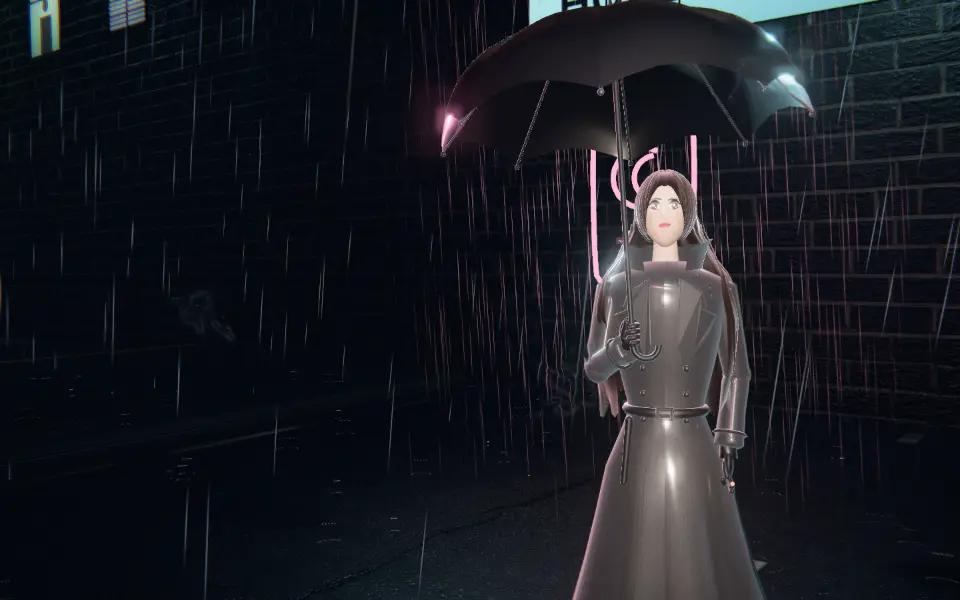
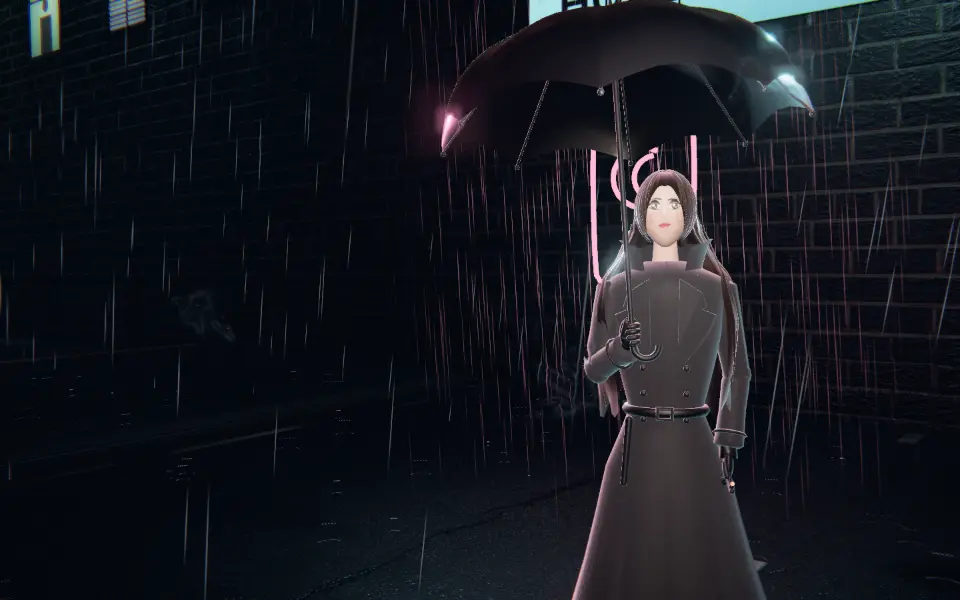
NIGHT SHIFT poster: the trench as matte wool and a soft face key, not chrome (item 221 done)
Claude-Session: https://claude.ai/code/session_01SimvMMn7LS4CBVXbMiyBKZ

diff --git a/games/cathode/src/render/frontscene.ts b/games/cathode/src/render/frontscene.ts
@@ -200,8 +200,20 @@ export async function openFrontScene(canvas: HTMLCanvasElement, o: FrontSceneOpt
     // lens's side) lifts the black trench off the street; a second, softer one at face height; a cool cyan rim from
     // behind her right parts her from the dark.
     if (o.keyart) {
-      removers.push(world.light(toWorld(0.9, 1.2, 1.6), new THREE.Color(1.0, 0.72, 0.5), 20, 3.6));
-      removers.push(world.light(toWorld(0.7, 1.75, 1.2), new THREE.Color(1.0, 0.82, 0.7), 6, 2.4));
+      // Plan item 221: the key at 6.5 (20 polished the trench to chrome) and a small face key, so she reads as the
+      // mum in the rain; the coat's lacquer is taken down to wool for the poster only.
+      removers.push(world.light(toWorld(0.9, 1.2, 1.6), new THREE.Color(1.0, 0.72, 0.5), 6.5, 3.2));
+      removers.push(world.light(toWorld(0.45, 1.68, 0.75), new THREE.Color(1.0, 0.82, 0.7), 3, 1.6));
+      cath.group.traverse((obj) => {
+        const mats = (obj as THREE.Mesh).material;
+        for (const m of Array.isArray(mats) ? mats : mats ? [mats] : []) {
+          const pm = m as THREE.MeshPhysicalMaterial;
+          if (!pm.isMeshPhysicalMaterial || pm.clearcoat < 0.5) continue;
+          pm.clearcoat = 0.12;
+          pm.clearcoatRoughness = 0.5;
+          pm.roughness = Math.max(pm.roughness, 0.85);
+        }
+      });
       removers.push(world.light(toWorld(-0.9, 1.6, -0.9), new THREE.Color(0.2, 0.8, 1.0), 12, 3.2));
       world.renderer.domElement.dataset.keyart = "1";
     }

diff --git a/docs/plan/two-week-plan.md b/docs/plan/two-week-plan.md
@@ -2406,7 +2406,7 @@ The items come from fresh-eyes audits on 2026-11-01 and 2026-11-02 (items 25-32:
 - **Accept:** at 1440x900 and 1280x800 the column shows three groups at most; no empty rack cell; every label 12 px or more; Go 56 px or more tall; tray, round-chips and critique specs pass; shots D and P (P unchanged).
 - **Size:** 2
 
-## 221. [ ] NIGHT SHIFT poster: Cath lit as on the title, not chrome *(tried 2026-11-06 20:05 lane A, not committed, handed back: the chrome is the trench's clearcoat (0.85, frontcath.ts) under the `?keyart` keys. In the `o.keyart` branch of frontscene.ts: coat key 20 -> 6.5 (range 3.2), face key at toWorld(0.45, 1.68, 0.75) range 1.6, and traverse cath.group setting clearcoat 0.12 / clearcoatRoughness 0.5 / roughness >= 0.85 on materials with clearcoat >= 0.5. Measured on the 960 webp (linear): coat box 610-740 x 420-590 mean 0.114 -> 0.044, matte; face box 648-678 x 190-235 0.685 with the face key at 7 (still flat white: try 3). Re-shoots came back black while the release's e2e had the CPU: shoot on a quiet machine)*
+## 221. [x] NIGHT SHIFT poster: Cath lit as on the title, not chrome *(done 2026-11-06 23:00 lane A: key 20 -> 6.5, a 3-unit face key, the trench clearcoat 0.85 -> 0.12 for the `?keyart` shoot only; 960 webp coat mean 0.115 -> 0.034 with no pixel over 0.9 beyond 0.1%, face 0.57, about 45 px tall (30 at 640); keyart-fresh passes)*
 - **Why:** `portfolio/public/work/games-nightshift-960.webp` (shown on `/games/` 1040-1330 x 490-690 and the portfolio 790-990 x 430-640): the `?keyart` frame lights her trench like polished chrome and her face flat white, so the poster reads as an armoured figure, not the mum in the rain the title shows.
 - **Build:** the key-art frame uses the title's grade and key light (warm key on her face, the coat a matte wool, rim light from the neon), framed waist-up so her face is 30 px or more at 640 px wide; re-shoot with `npm run keyart nightshift`.
 - **Accept:** the coat's mean luminance under 0.35 with no blown highlight over 5% of its area; her face's luminance 0.15 or more and 30 px or more at the 640 size; keyart-fresh passes; the three webps re-shot and looked at.
